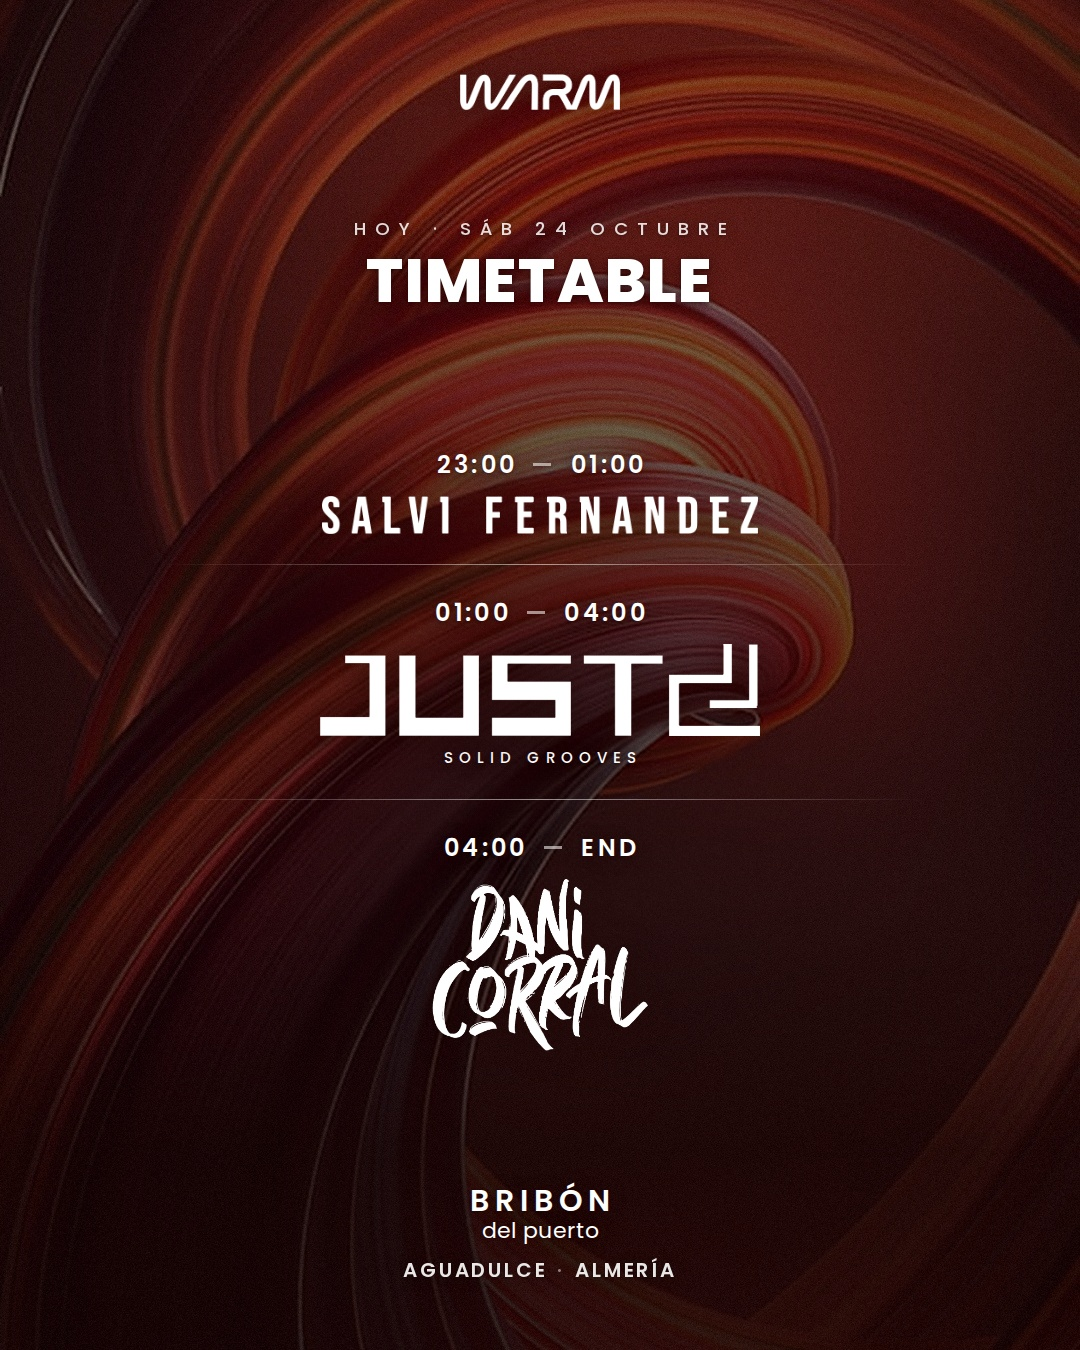
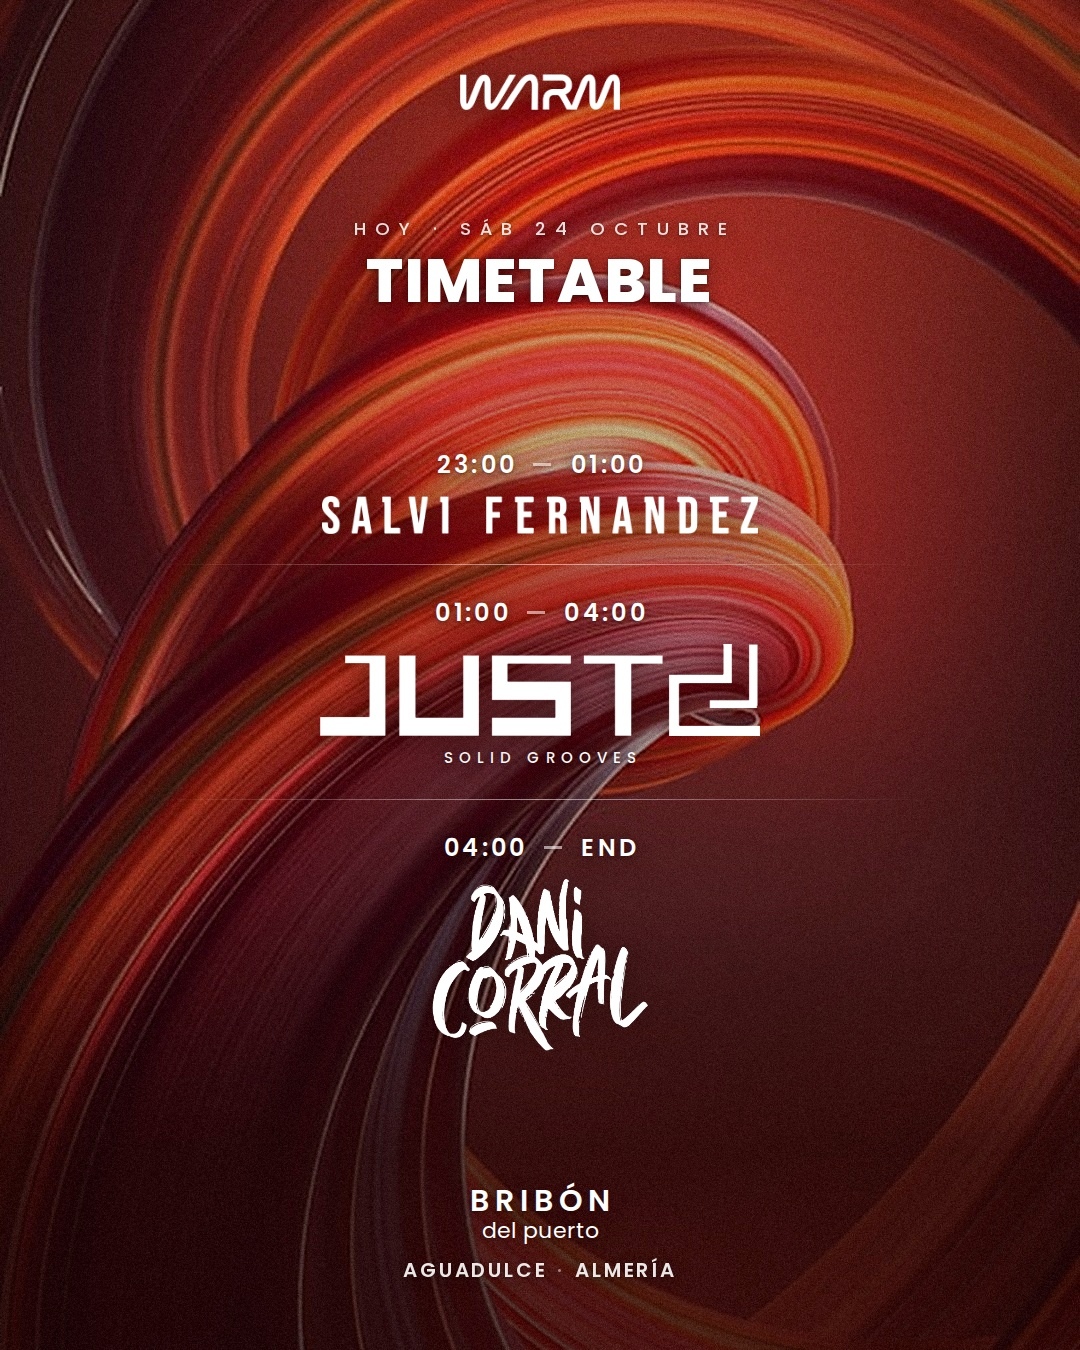
WARM 24.10 — timetable mai luminos
Claude-Session: https://claude.ai/code/session_01PsYJ7xTqRMzxVLnVuQx1Lt

diff --git a/warm_24oct/timetable.html b/warm_24oct/timetable.html
@@ -4,8 +4,8 @@
 *{margin:0;padding:0;box-sizing:border-box}
 html,body{overflow:hidden;background:#200606}
 body{font-family:'Poppins',sans-serif;color:#fff;text-transform:uppercase}
-#bg{position:absolute;inset:0;background-size:cover;background-position:center}
-#bg::after{content:"";position:absolute;inset:0;background:radial-gradient(ellipse 62% 50% at 50% 54%,rgba(14,2,2,.72),rgba(14,2,2,.35) 70%,rgba(14,2,2,.2))}
+#bg{position:absolute;inset:0;background-size:cover;background-position:center;filter:brightness(1.3) saturate(1.08)}
+#bg::after{content:"";position:absolute;inset:0;background:radial-gradient(ellipse 50% 42% at 50% 52%,rgba(14,2,2,.42),rgba(14,2,2,.12) 75%,rgba(14,2,2,0))}
 .wrap{position:absolute;inset:0;display:flex;flex-direction:column;align-items:center;text-align:center}
 .sh{text-shadow:0 2px 16px rgba(30,4,0,.6),0 1px 3px rgba(30,4,0,.4)}
 img.sh{filter:drop-shadow(0 2px 14px rgba(30,4,0,.55))}
